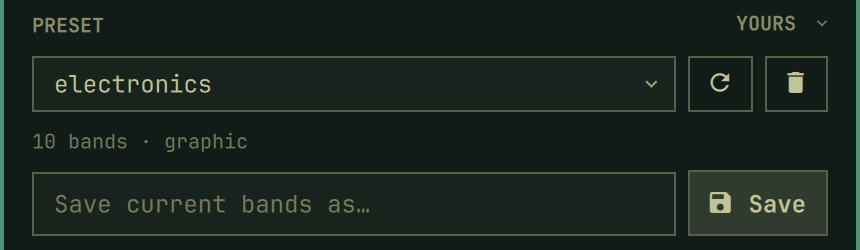
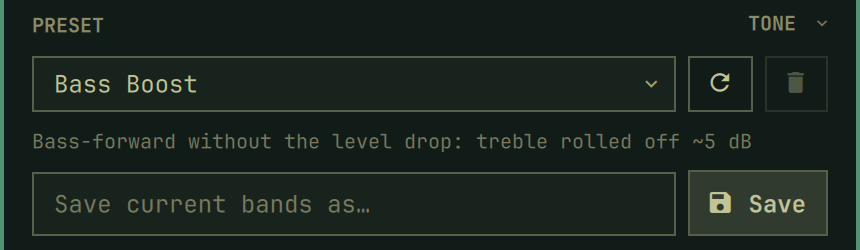
Recapture the screenshots and describe the tabbed layout in the README

diff --git a/README.md b/README.md
@@ -5,7 +5,15 @@ output: a 10-band graphic EQ, up to 16 parametric bands, level-matched presets,
 AutoEq headphone import, automatic headroom, and an output stage (brickwall
 limiter plus a multiband "Magic Boost" compressor).
 
-![The equalizer panel](docs/panel.png)
+<p align="center">
+  <img src="docs/panel.png" width="430" alt="The equalizer panel: power switch and level meter, the preset picker, and the Response tab with the curve, ten faders and the preamp">
+</p>
+
+The panel keeps the power switch, the level meter and the preset picker fixed at
+the top; below them a tab bar switches between **Response** (the curve, the
+10-band faders or the parametric handles, the mode switch and the preamp),
+**Bands** (one row per band, parametric mode only), **Output** (limiter and
+Magic Boost) and **AutoEq**.
 
 Everything is driven from the panel; the same operations are available from the
 command line.
@@ -290,7 +298,9 @@ cannot drift. The user's own presets follow the built-ins and read as `Yours`. A
 file without a `name` is not listed at all, so a half-written preset cannot
 appear as a nameless entry.
 
-![The preset section](docs/presets.png)
+<p align="center">
+  <img src="docs/presets.png" width="430" alt="The preset section: category, picker with reset and delete, the preset's description, and the save field">
+</p>
 
 ### Presets are level-matched
 
